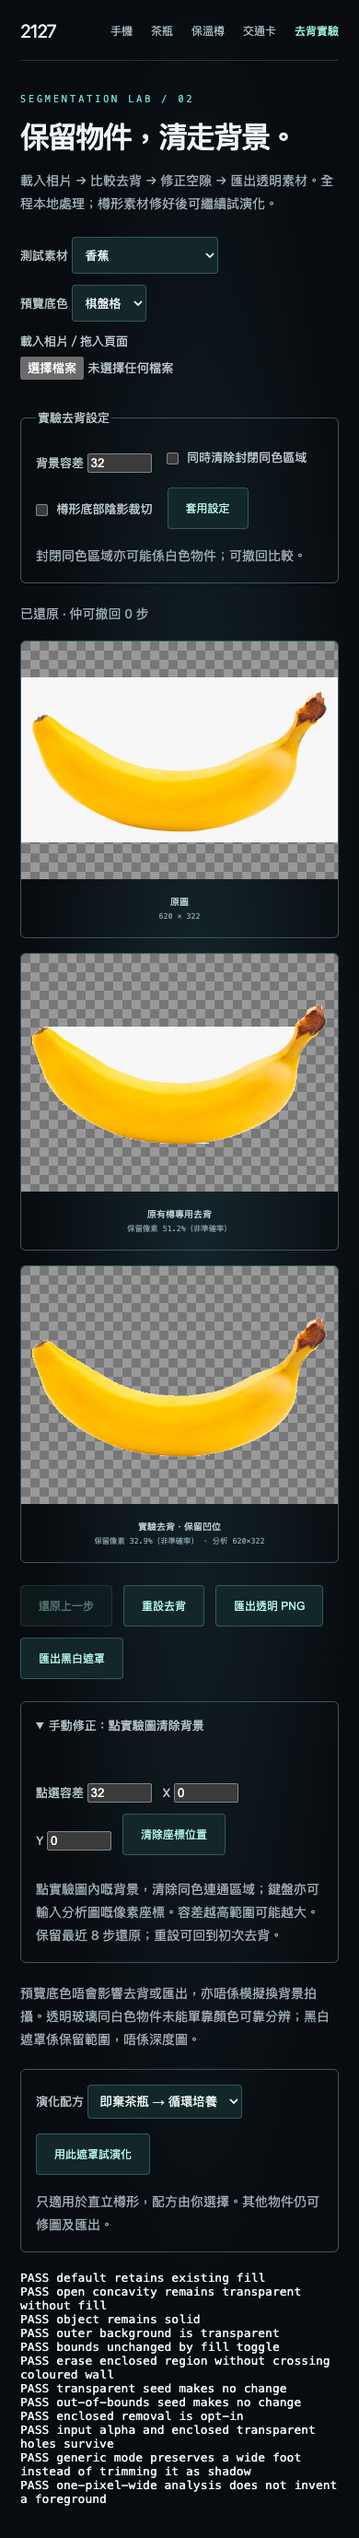
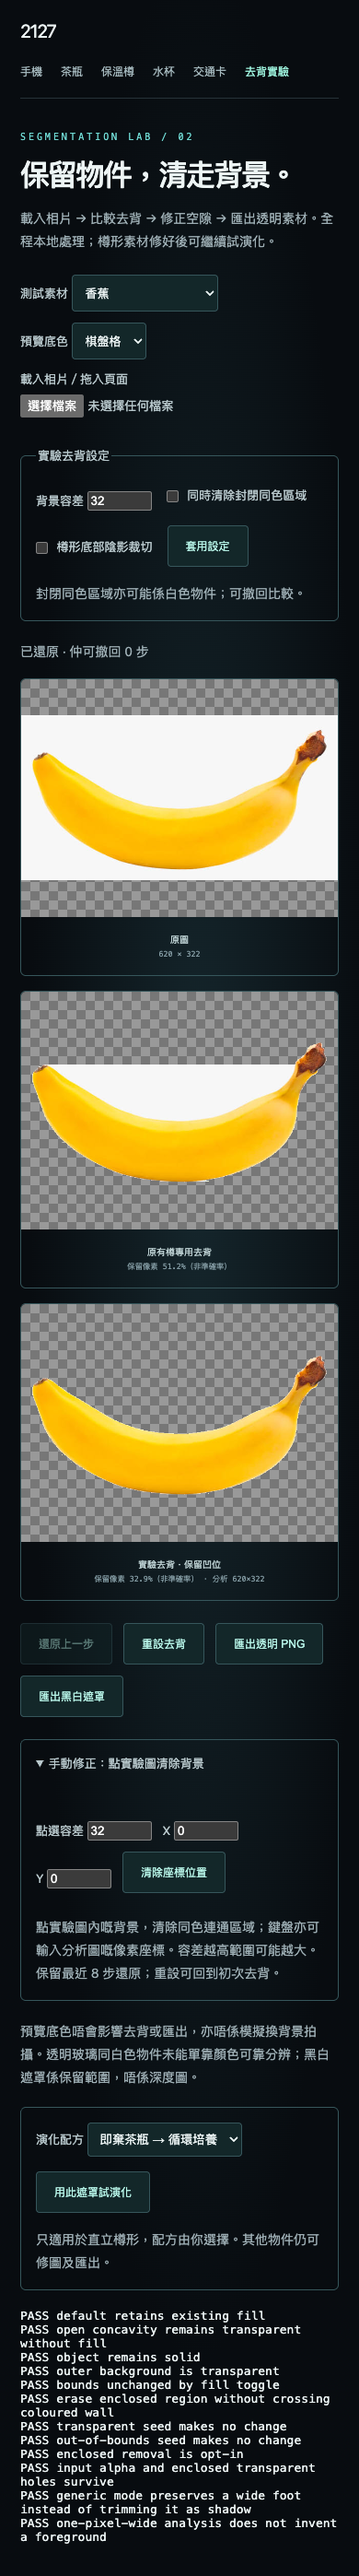
feat(studies): add the wide-container recipe (cup)
第三個演化配方 cup()：闊身容器（闊高比 0.6–1.15），fixture 用已在 repo 的
assets/segmentation/water.jpg，入口 studies.html?object=cup。

保留就口杯緣同承座，移走成幅杯壁，加懸掛式內膽（上下都有實體連接）、
三條調溫臂、中段束環同比原杯闊嘅站姿；負空間係真 alpha。

同 bottle()／flask() 唔同，cup() 每個 x 由遮罩量到嘅半闊推出嚟，
唔寫死 fixture 嘅像素欄 —— 因為呢個類別本身係一個比例範圍，唔係一張相。

守門改成逐配方比例範圍 RANGE，揀錯配方會拒絕並講返邊個配方啱
（實測：闊高比 0.73 唔喺「茶瓶」範圍，比較接近「闊身容器」）；
切換配方會重新守門。配方仍然人手揀，冇自動辨識。

390px 三粒配方掣會溢出，已加 flex-wrap。
lab 12 + studies 41 + phone 9 + legacy 67 = 129 全綠。

Claude-Session: https://claude.ai/code/session_01Xbqts8uz557AYsPHVhYA2D

Changed region(s): [[0.0308, 0.0, 0.9538, 0.9993], [0.8615, 0.0, 0.9231, 0.0312], [0.8923, 0.0625, 0.9231, 0.0937]]

diff --git a/studies.html b/studies.html
@@ -13,27 +13,27 @@
 <link rel="stylesheet" href="calibration.css">
 </head>
 <body><main>
-<header><div class="mark">2127<span>100 YEARS LATER</span></div><nav aria-label="物件測試" style="display:flex;gap:20px;flex-wrap:wrap"><a href="phone.html">手機</a><a href="studies.html?object=bottle" id="nav-bottle">茶瓶</a><a href="studies.html?object=bottle-b" id="nav-bottle-b">保溫樽</a><a href="studies.html?object=suica" id="nav-suica">交通卡</a><a href="studies.html?lab=1" id="nav-lab">去背實驗</a></nav></header>
+<header><div class="mark">2127<span>100 YEARS LATER</span></div><nav aria-label="物件測試" style="display:flex;gap:20px;flex-wrap:wrap"><a href="phone.html">手機</a><a href="studies.html?object=bottle" id="nav-bottle">茶瓶</a><a href="studies.html?object=bottle-b" id="nav-bottle-b">保溫樽</a><a href="studies.html?object=cup" id="nav-cup">水杯</a><a href="studies.html?object=suica" id="nav-suica">交通卡</a><a href="studies.html?lab=1" id="nav-lab">去背實驗</a></nav></header>
 <section class="hero"><div class="copy"><div class="eyebrow">FORM STUDY / <span id="number">003</span></div><h1 id="title"></h1><p class="intro" id="intro"></p><div class="specs" id="specs"></div></div>
 <figure><canvas id="view" width="1456" height="970" role="img" aria-label="原物件與未來形態比較"></canvas><figcaption id="phase" aria-live="polite">準備形態推演</figcaption></figure></section>
 <div class="controls"><div class="compare"><div class="labels"><label for="evolution">原始物件</label><span>2127 形態</span></div><input id="evolution" aria-label="原始物件與 2127 形態比較" type="range" min="0" max="100" value="100" disabled></div><button id="replay" disabled>重新推演 ↗</button></div>
 <div class="controls" id="loadwrap" hidden style="flex-wrap:wrap;gap:14px">
 <label class="filebtn">放一張新相片入嚟 …<input type="file" id="file" accept="image/jpeg,image/png,image/webp" hidden></label>
-<span style="display:flex;align-items:center;gap:8px"><span class="hint">配方</span><button class="rbtn" data-r="bottle" aria-pressed="false">茶瓶・培養循環</button><button class="rbtn" data-r="flask" aria-pressed="false">鋼樽・大氣取水</button></span>
-<span class="hint" id="loadhint">或直接將相片拖入頁面・單一直立物件・乾淨漸層背景</span></div>
+<span style="display:flex;align-items:center;gap:8px;flex-wrap:wrap"><span class="hint">配方</span><button class="rbtn" data-r="bottle" aria-pressed="false">茶瓶・培養循環</button><button class="rbtn" data-r="flask" aria-pressed="false">鋼樽・大氣取水</button><button class="rbtn" data-r="cup" aria-pressed="false">闊身容器・懸掛內膽</button></span>
+<span class="hint" id="loadhint">或直接將相片拖入頁面・單一物件・乾淨漸層背景・配方要自己揀</span></div>
 <div class="controls" id="elevwrap" hidden><div class="compare"><div class="labels"><label for="elevation">鏡頭：正面</label><span>斜視 45°</span></div><input id="elevation" aria-label="鏡頭仰角" type="range" min="0" max="100" value="0"></div><span style="font:10px ui-monospace,monospace;color:#5f757e;white-space:nowrap">原型・程序幾何重新投影</span></div>
 <footer><p class="kept" id="kept"></p><p>靜態相片・本地程序生成<br>單張相片校準測試，未包含旋轉追蹤。</p></footer><pre id="checks" hidden></pre>
 </main><script src="segmentation.js"></script><script src="calibration.js"></script><script>
 'use strict';
-const SRC={bottle:'assets/bottle-source.webp','bottle-b':'assets/bottle-b-source.jpeg',suica:'assets/suica-source.jpg'};
+const SRC={bottle:'assets/bottle-source.webp','bottle-b':'assets/bottle-b-source.jpeg',cup:'assets/segmentation/water.jpg',suica:'assets/suica-source.jpg'};
 const Q=new URLSearchParams(location.search),kind=!Q.has('lab')&&SRC[Q.get('object')]?Q.get('object'):'bottle',family=kind==='suica'?'suica':'bottle';
-const COPY={flask:{number:'005',title:'水，<br>由空氣嚟。',intro:'保溫層退場。真空夾層外露成冷凝鰭，樽身自己由空氣抽水；你只需要帶住佢。',specs:['外露冷凝鰭層','底部進氣與集水','保留鋼蓋與樽身輪廓'],kept:'一百年後，還是想隨時有一口水。'},bottle:{number:'003',title:'一口茶，<br>一個循環。',intro:'拋棄式瓶身退場。保留瓶口與茶液，讓培養、過濾與補水成為同一件容器。',specs:['循環培養艙','相連過濾莢','保留瓶口與茶液'],kept:'一百年後，還是為了那一口茶。'},suica:{number:'004',title:'通行，<br>隨身而行。',intro:'卡片縮成腕上的通行核心。玉色帶體環抱手腕，熟悉的識別面陪你走過下一道門。',specs:['開口式腕環','無接觸感應端','保留原卡識別面'],kept:'一百年後，還是想順利回家。'}};
+const COPY={cup:{number:'006',title:'一啖嘅<br>溫度。',intro:'杯壁退場。剩返就口嘅杯緣同承座，中間換成懸掛內膽同三條調溫臂；飲品淨係喺你手上嗰陣先保住溫度。',specs:['懸掛式內膽','三臂調溫葉片','保留杯緣與承座'],kept:'一百年後，還是想飲啖啱溫度嘅嘢。'},flask:{number:'005',title:'水，<br>由空氣嚟。',intro:'保溫層退場。真空夾層外露成冷凝鰭，樽身自己由空氣抽水；你只需要帶住佢。',specs:['外露冷凝鰭層','底部進氣與集水','保留鋼蓋與樽身輪廓'],kept:'一百年後，還是想隨時有一口水。'},bottle:{number:'003',title:'一口茶，<br>一個循環。',intro:'拋棄式瓶身退場。保留瓶口與茶液，讓培養、過濾與補水成為同一件容器。',specs:['循環培養艙','相連過濾莢','保留瓶口與茶液'],kept:'一百年後，還是為了那一口茶。'},suica:{number:'004',title:'通行，<br>隨身而行。',intro:'卡片縮成腕上的通行核心。玉色帶體環抱手腕，熟悉的識別面陪你走過下一道門。',specs:['開口式腕環','無接觸感應端','保留原卡識別面'],kept:'一百年後，還是想順利回家。'}};
 function setCopy(type){const copy=COPY[type];
 for(const id of ['number','intro','kept'])document.getElementById(id).textContent=copy[id];
 document.getElementById('title').innerHTML=copy.title;
 document.getElementById('specs').innerHTML=copy.specs.map((s,i)=>`<div><span>0${i+1}</span>${s}</div>`).join('');
 }
-setCopy(kind==='bottle-b'?'flask':family==='bottle'?'bottle':'suica');
+setCopy(kind==='bottle-b'?'flask':kind==='cup'?'cup':family==='bottle'?'bottle':'suica');
 document.getElementById('nav-'+kind).style.color='#9ef4de';document.getElementById('nav-'+kind).setAttribute('aria-current','page');
 const canvas=document.getElementById('view'),ctx=canvas.getContext('2d'),slider=document.getElementById('evolution'),replay=document.getElementById('replay'),phase=document.getElementById('phase');
 let photo=new Image();const source=document.createElement('canvas'),future=document.createElement('canvas');
@@ -127,14 +127,14 @@ function cuff(){
  for(let i=0;i<5;i++)line(c,`M-80 ${i*14+8} L-73 ${i*14+8}`,'#b7d89a',1.2);
  c.restore();
 }
-let anchors=null,recipe=kind==='bottle-b'?'flask':'bottle';
+let anchors=null,recipe=kind==='bottle-b'?'flask':kind==='cup'?'cup':'bottle';
 const E0=Math.asin(.085),E1=45*Math.PI/180;
 // Redraw the future canvas from scratch. build() ran once and each renderer calls scale(2,2),
 // so the transform must be reset here or repeated elevation redraws would compound it (gotcha #9).
 function renderFuture(elev=E0){
  const c=future.getContext('2d');
  c.setTransform(1,0,0,1,0,0);c.clearRect(0,0,1456,970);
- if(family!=='bottle')cuff();else if(recipe==='flask')flask(elev);else bottle();
+ if(family!=='bottle')cuff();else if(recipe==='cup')cup();else if(recipe==='flask')flask(elev);else bottle();
 }
 // Photo B is a vacuum steel flask: it has already solved the disposable bottle's problem, so it
 // gets its own evolution rather than the tea recipe. Its defining property is holding a state
@@ -192,6 +192,53 @@ function flask(elev){
  line(c,'M311 388 Q365 399 419 388','#c8e6f0',1.7,3);
  oval(c,365,95,29,RY(29,6),'#243b43','#c8dae2',1);
 }
+// A cup is not a bottle pushed sideways: it is open at the top and meant to be drunk from
+// directly, so its century is about the drink's temperature, not about storing or harvesting.
+// The straight wall goes; the rim you put your mouth on and the foot it stands on remain.
+// Unlike bottle()/flask(), every x here is derived from the mask's own measured half-width,
+// because this class spans 0.6-1.15 width/height instead of one fixture's proportions.
+function cup(){
+ const c=future.getContext('2d');c.scale(2,2);
+ const k=428.2/(anchors.base-anchors.top),hw=anchors.width*k/2,cx=364.8,TOP=22.3,BOT=450.5;
+ const clay=grad(c,cx-hw,0,cx+hw,0,[[0,'#4b3a33'],[.24,'#f4e7d6'],[.56,'#cfae8e'],[1,'#3d302b']]);
+ const shell=grad(c,cx-hw*.42,0,cx+hw*.42,0,[[0,'#2f2a2a'],[.22,'#f0e6dbb0'],[.55,'#a2938aa0'],[1,'#282224']]);
+ const amber=grad(c,0,TOP+150,0,BOT-70,[[0,'#f2c983c0'],[.45,'#d4903dd0'],[1,'#7f4a1ae0']]);
+ const arm=(d,w=8)=>{line(c,d,'#2a1f1a',w+3);line(c,d,'#cba887',w);line(c,d,'#f8ead8',1.1);};
+ const yb=TOP+44,yf=BOT-46,cb=yf-38;
+ // The photographed drinking rim and foot stay; the wall and its contents between them go.
+ c.save();c.beginPath();c.rect(0,0,728,yb);c.clip();c.drawImage(source,0,0,728,485);c.restore();
+ c.save();c.beginPath();c.rect(0,yf,728,485-yf);c.clip();c.drawImage(source,0,0,728,485);c.restore();
+ // Back hanger first: it passes behind the suspended core, so the core reads as hung inside.
+ arm(`M${cx} ${yb-4} L${cx} ${cb-24}`,6);
+ // Mid brace ties the three arms together; the core hangs through it.
+ oval(c,cx,TOP+232,hw*1.02,hw*.12,null,'#c9a988',2.2);
+ // Suspended inner vessel, tapered and closed at the foot, hung from the rim collar.
+ const core=`M${cx-hw*.40} ${yb+18} Q${cx} ${yb+4} ${cx+hw*.40} ${yb+18} L${cx+hw*.28} ${cb-22} Q${cx} ${cb+10} ${cx-hw*.28} ${cb-22} Z`;
+ shape(c,core,shell,'#e6d2ba',1.2);
+ const lvl=yb+18+(cb-yb-18)*.5;
+ shape(c,`M${cx-hw*.345} ${lvl} Q${cx} ${lvl+12} ${cx+hw*.345} ${lvl} L${cx+hw*.28} ${cb-22} Q${cx} ${cb+10} ${cx-hw*.28} ${cb-22} Z`,amber,'#f4c883',.9);
+ oval(c,cx,lvl,hw*.345,hw*.055,'#f9d69ab0','#ffeecb',1);
+ line(c,`M${cx-hw*.31} ${yb+30} L${cx-hw*.24} ${cb-30}`,'#fff3e090',1.6);
+ // Three arms carry and temper the core: they bow outside the old wall, then plant on a stance
+ // wider than the cup ever had. Slit lamellae run up each blade, not stacked rings (that is flask()).
+ for(const side of [-1,1]){
+  const x1=cx+side*hw*.93,x2=cx+side*hw*1.05,x3=cx+side*hw*1.07;
+  shape(c,`M${x1} ${yb-2} Q${x2+side*8} ${TOP+190} ${x2} ${yf-12} L${x3} ${BOT-8} L${x3-side*20} ${BOT-8} L${x2-side*19} ${yf-14} Q${x2-side*25} ${TOP+193} ${x1-side*13} ${yb} Z`,clay,'#f3e3d1',.9);
+  line(c,`M${x1-side*5} ${yb+8} Q${x2-side*12} ${TOP+193} ${x2-side*9} ${yf-18}`,'#ffd6a2',1.4,3);
+  for(let i=0;i<9;i++){const t=(i+.5)/9,y=yb+16+(yf-34-yb)*t,px=x1+(x2-x1)*Math.sin(t*Math.PI*.9);
+   line(c,`M${px-side*4} ${y+1} L${px-side*14} ${y+6}`,'#6d4f3f',2.4);line(c,`M${px-side*4} ${y} L${px-side*14} ${y+5}`,'#f0d9bd',.7);}
+  // Strut back onto the photographed foot, so the stance is seated on the object, not beside it.
+  arm(`M${x3-side*10} ${BOT-16} L${cx+side*hw*.46} ${yf+4}`,6);
+  oval(c,x3-side*10,BOT-8,15,4.5,'#3d2b23','#dbbb9d',1);
+ }
+ // Collars close the joints at both surviving ends.
+ shape(c,`M${cx-hw*.96} ${yb-8} Q${cx} ${yb+9} ${cx+hw*.96} ${yb-8} L${cx+hw*.92} ${yb+7} Q${cx} ${yb+24} ${cx-hw*.92} ${yb+7} Z`,clay,'#f6e6d4',1);
+ line(c,`M${cx-hw*.78} ${yb+7} Q${cx} ${yb+20} ${cx+hw*.78} ${yb+7}`,'#ffdcae',1.5,3);
+ // The core is hung from the rim and footed on the surviving base: supported at both ends.
+ arm(`M${cx} ${cb+4} L${cx} ${yf-1}`,5);
+ oval(c,cx,yf+1,hw*.42,hw*.055,null,'#e6cbaf',1.4);
+ oval(c,cx,yf-1,hw*.13,hw*.03,'#5b4238','#e0c3a6',1);
+}
 // One reason per failed condition. A single 「不支援」 line cannot tell the operator whether to
 // re-shoot, crop, or fix the mask in the lab, and every rejection here has a different remedy.
 // The shape tests alone are geometric and cannot tell a good mask from none at all: a cluttered
@@ -199,13 +246,15 @@ function flask(elev){
 // it conflates "background not removed" with "object simply framed tight", which would reject a
 // correctly segmented photo. Reaching both side borders is the signal that the frame, not an
 // object, is what survived; the loose area bound catches a mask that hugs one edge only.
-function bottleGate(s,h){
+const RANGE={bottle:[.15,.6],flask:[.15,.6],cup:[.6,1.15]},RNAME={bottle:'茶瓶',flask:'保溫樽',cup:'闊身容器'};
+function bottleGate(s,h,rec){
  if(!s)return '搵唔到前景：物件同背景顏色太接近';
  if(s.bothSides)return '剪影掂到左右兩邊畫框：背景未清走（可喺實驗模式修圖）';
  if(s.kept>=.6)return `保留範圍達 ${Math.round(s.kept*100)}%：背景大部分未清走`;
  if(s.base-s.top<=h*.25)return '物件太細：高度需要佔畫面四分一以上';
- const asp=s.width/(s.base-s.top);
- if(asp<=.15||asp>=.6)return `闊高比 ${asp.toFixed(2)} 唔喺直立樽形範圍（0.15–0.6）`;
+ const asp=s.width/(s.base-s.top),[lo,hi]=RANGE[rec];
+ if(asp<=lo||asp>=hi){const fit=Object.keys(RANGE).find(r=>RANGE[r][0]!==lo&&asp>RANGE[r][0]&&asp<RANGE[r][1]);
+  return `闊高比 ${asp.toFixed(2)} 唔喺「${RNAME[rec]}」配方範圍（${lo}–${hi}）`+(fit?`；比較接近「${RNAME[fit]}」配方，可以喺配方揀返`:'');}
  return null;
 }
 // Returns true, or the reason this photo/mask was rejected.
@@ -216,7 +265,7 @@ function build(prepared=null){
  c.setTransform(1,0,0,1,0,0);c.clearRect(0,0,1456,970);c.scale(2,2);
  if(family==='bottle'){
   // Reject anything that is not one upright bottle-shaped silhouette rather than rendering nonsense.
-  const s=prepared||segment(photo),why=bottleGate(s,photo.naturalHeight);if(why)return why;
+  const s=prepared||segment(photo),why=bottleGate(s,photo.naturalHeight,recipe);if(why)return why;
   // bottle()'s geometry is drawn for a bottle whose top/base/centre sit at 22.3/450.5/364.8.
   // Placing any measured bottle onto those anchors reuses that artwork without re-authoring it.
   const k=428.2/(s.base-s.top);
@@ -240,12 +289,12 @@ if(kind==='bottle-b'){const wrap=document.getElementById('elevwrap'),el=document
 slider.addEventListener('input',()=>{cancelAnimationFrame(raf);raf=0;draw(+slider.value/100);phase.textContent=+slider.value===0?'原始物件':+slider.value===100?'2127 / 形態完成':'原型 ↔ 未來形態';});replay.addEventListener('click',evolve);
 function selfTest(){const rows=[],check=(n,ok)=>rows.push(`${ok?'PASS':'FAIL'} ${n}`),a=source.getContext('2d').getImageData(0,0,1456,970).data,b=future.getContext('2d').getImageData(0,0,1456,970).data;let count=0,removed=0,added=0;for(let i=3;i<a.length;i+=4){if(a[i]>200){count++;if(b[i]<30)removed++;}else if(a[i]<10&&b[i]>180)added++;}
  if(family==='bottle'){check('background actually removed, not merely plausible geometry',!!anchors&&!anchors.bothSides&&anchors.kept<.6);
-  check('rejection names the failing condition',/掂到左右/.test(bottleGate({bothSides:true,kept:.2,top:0,base:100,width:30},200))&&/闊高比/.test(bottleGate({bothSides:false,kept:.2,top:0,base:100,width:90},200))&&bottleGate(anchors,photo.naturalHeight)===null);
+  check('rejection names the failing condition and the recipe that fits',/掂到左右/.test(bottleGate({bothSides:true,kept:.2,top:0,base:100,width:30},200,recipe))&&/闊身容器/.test(bottleGate({bothSides:false,kept:.2,top:0,base:100,width:90},200,'bottle'))&&bottleGate(anchors,photo.naturalHeight,recipe)===null);
   check('anchors measured from this photo, not hardcoded',!!anchors&&anchors.base-anchors.top>photo.naturalHeight*.25&&Math.abs(anchors.cx-photo.naturalWidth/2)<photo.naturalWidth*.2);
   if(kind==='bottle'){const k=428.2/(anchors.base-anchors.top);
    check('calibrated fixture still lands on its authored placement',Math.abs(364.8-anchors.cx*k-150.6)<3&&Math.abs(photo.naturalWidth*k-428.8)<6);}}
  else check('calibrated source dimensions',photo.naturalWidth===1280&&photo.naturalHeight===961);check('source background is transparent',a[3]===0&&count>1000);check('original solid area physically removed',removed/count>(family==='bottle'?.12:.3));if(family==='bottle')check('new structures extend beyond source',added/count>.05);else{const alpha=(x,y)=>b[(y*2*1456+x*2)*4+3];check('open cuff has solid band and credential mount, clear side gap',alpha(358,125)>200&&alpha(312,330)>200&&alpha(581,229)===0);}
- const hole=kind==='bottle-b'?[314,160]:family==='bottle'?[309,280]:[365,228],k=(hole[1]*2*1456+hole[0]*2)*4+3;check('former body contains actual transparent negative space',a[k]>200&&b[k]===0);draw();check('final composite removes old body',ctx.getImageData(0,0,1456,970).data[k]<30);check('controls enabled',!slider.disabled&&!replay.disabled);
+ const hole=kind==='bottle-b'?[314,160]:kind==='cup'?[250,300]:family==='bottle'?[309,280]:[365,228],k=(hole[1]*2*1456+hole[0]*2)*4+3;check('former body contains actual transparent negative space',a[k]>200&&b[k]===0);draw();check('final composite removes old body',ctx.getImageData(0,0,1456,970).data[k]<30);check('controls enabled',!slider.disabled&&!replay.disabled);
  if(family==='bottle'){
   // build() is now re-entrant (file input can load repeatedly). It applies scale(2,2), so without
   // the reset at its head a second load would draw the source at half size and every anchor-driven
@@ -319,7 +368,11 @@ if(family==='bottle'&&!Q.has('lab')){
   b.addEventListener('click',()=>{
    recipe=b.dataset.r;setCopy(recipe);
    for(const o of wrap.querySelectorAll('.rbtn'))o.setAttribute('aria-pressed',String(o.dataset.r===recipe));
-   if(anchors){renderFuture();evolve();}});
+   // Each recipe has its own supported proportions, so switching must re-run the gate:
+   // a tea bottle silhouette is not a cup and must be rejected rather than drawn as one.
+   if(!photo||!photo.naturalWidth)return;
+   const why=build();if(why!==true)return fail('不在支援範圍——'+why);
+   show();});
  }
  let depth=0;
  addEventListener('dragenter',e=>{e.preventDefault();if(!depth++)document.body.classList.add('drag');});
@@ -365,7 +418,7 @@ function startLab(){
  <label>點選容差 <input id="lab-tolerance" type="number" required min="0" max="100" value="32"></label>
  <label>X <input id="lab-x" type="number" required min="0" value="0"></label><label>Y <input id="lab-y" type="number" required min="0" value="0"></label><button id="lab-erase" disabled>清除座標位置</button></div>
  <p class="lab-note" id="lab-help">點實驗圖內嘅背景，清除同色連通區域；鍵盤亦可輸入分析圖嘅像素座標。容差越高範圍可能越大。保留最近 8 步還原；重設可回到初次去背。</p></details>
- <p class="lab-note">預覽底色唔會影響去背或匯出，亦唔係模擬換背景拍攝。透明玻璃同白色物件未能單靠顏色可靠分辨；黑白遮罩係保留範圍，唔係深度圖。</p><div class="lab-settings"><label>演化配方 <select id="lab-recipe"><option value="bottle">即棄茶瓶 → 循環培養</option><option value="flask">保溫樽 → 大氣取水</option></select></label><button id="lab-evolve" disabled>用此遮罩試演化</button><span class="lab-note">只適用於直立樽形，配方由你選擇。其他物件仍可修圖及匯出。</span></div><section id="lab-evolution" hidden aria-label="樽形演化預覽"></section><pre id="lab-checks" hidden></pre>`;
+ <p class="lab-note">預覽底色唔會影響去背或匯出，亦唔係模擬換背景拍攝。透明玻璃同白色物件未能單靠顏色可靠分辨；黑白遮罩係保留範圍，唔係深度圖。</p><div class="lab-settings"><label>演化配方 <select id="lab-recipe"><option value="bottle">即棄茶瓶 → 循環培養</option><option value="flask">保溫樽 → 大氣取水</option><option value="cup">闊身容器 → 懸掛內膽</option></select></label><button id="lab-evolve" disabled>用此遮罩試演化</button><span class="lab-note">只適用於直立樽形，配方由你選擇。其他物件仍可修圖及匯出。</span></div><section id="lab-evolution" hidden aria-label="樽形演化預覽"></section><pre id="lab-checks" hidden></pre>`;
  document.querySelector('main').append(lab);
  const get=id=>document.getElementById('lab-'+id),status=get('status'),sample=get('sample'),editable=get('view-2'),g=editable.getContext('2d');
  const xInput=get('x'),yInput=get('y'),tolerance=get('tolerance'),bgTolerance=get('bg-tolerance'),enclosed=get('enclosed'),shadow=get('shadow');
@@ -457,7 +510,7 @@ function startLab(){
   try{await img.decode();if(version!==revision)return;
    const geometry=maskGeometry(editable);
    photo=img;recipe=get('recipe').value;setCopy(recipe);
-   const why=geometry?build(geometry):bottleGate(null);
+   const why=geometry?build(geometry):bottleGate(null,0,recipe);
    if(why!==true){fail('不在支援範圍——'+why);message(`此遮罩未能套用樽配方：${why}；請繼續修圖或匯出`,true);preview.hidden=true;return;}
    preview.hidden=false;show();message(`${name} · 已用目前遮罩試演化（手動選配方，非自動辨識）`);
    preview.scrollIntoView({behavior:'instant',block:'start'});

diff --git a/HANDOFF.md b/HANDOFF.md
@@ -7,10 +7,11 @@ Updated: 2026-09-08 · Workspace: `/Users/fatboy/item2127`
 The user authorized continued implementation, chose **a few everyday-object classes** rather than arbitrary food/toy evolution, and chose **offline-first operation**. No physical hardware exists for this exploration. All runtime assets are local; no model or cloud API was added.
 
 - `studies.html?lab=1`: compare original / bottle-specific segmentation / editable generic segmentation. Configurable colour tolerance, opt-in enclosed-region removal, optional bottle-shadow trim, eight-step undo, reset, drag/drop, transparent PNG and grayscale-mask export. Working/export resolution is capped at 1200px on the longest side. Existing input alpha is preserved.
-- Edited masks can feed the existing tea-bottle or steel-flask renderer directly. Unsupported geometry keeps the editor available. Editing or replacing the mask hides stale evolution results. Recipe selection also updates the narrative.
+- `studies.html?object=cup`: a third evolution recipe for the wide-container class (width/height 0.6-1.15), authored against `assets/segmentation/water.jpg`. The drinking rim and foot are kept from the photo, the wall is removed, and a suspended inner vessel on three tempering arms is added. Unlike the two bottle renderers its geometry is derived from the mask's measured half-width, not from one fixture's pixel columns. Recipes are still chosen by hand; each has its own supported proportions and picking the wrong one is rejected with the reason and the recipe that fits.
+- Edited masks can feed the existing tea-bottle, steel-flask or wide-container renderer directly. Unsupported geometry keeps the editor available. Editing or replacing the mask hides stale evolution results. Recipe selection also updates the narrative.
 - `phone.html` and `studies.html?object=suica`: upload a photo, mark four corners by pointer or coordinates, apply the existing artwork, or restore the original fixture. `calibration.js` shares the phone's projective map and inverse, alpha-aware resampling, validation and UI. `calibration.css` styles the shared controls.
 - `segmentation.js`: shared segmentation and mask geometry. Local convex-outline corner proposals work on the card fixture; the phone fixture and banana are rejected rather than weakening the quadrilateral fit check. Proposals require human inspection and do not recognize object identity.
-- Validation: **119 page self-checks**, plus the real UI workflow in `tests/browser.cjs`. See `tests/README.md` for prerequisites and invocation. Rejections name the failing gate condition (aspect / silhouette touching both frame edges / retained area / too small) rather than one generic line; evidence in `previews/input-tests/reject-reasons.json`. Latest evidence: `previews/input-tests/workflow-results.json`, calibrated phone/card screenshots, mask exports and bottle bridge screenshots.
+- Validation: **129 page self-checks**, plus the real UI workflow in `tests/browser.cjs`. See `tests/README.md` for prerequisites and invocation. Rejections name the failing gate condition (aspect / silhouette touching both frame edges / retained area / too small) rather than one generic line; evidence in `previews/input-tests/reject-reasons.json`. Latest evidence: `previews/input-tests/workflow-results.json`, calibrated phone/card screenshots, mask exports and bottle bridge screenshots.
 - Evidence limits: calibration was tested with translated/padded original fixtures, not a new physical phone/card. Glass bright regions are incorrectly removed by aggressive colour-keying. This is reusable local preparation and authored evolution, not arbitrary-object generation or exhibition validation.
 
 Next work should improve robustness within these four authored directions using additional in-class photos. Keep manual correction and explicit rejection until automated geometry is supported by evidence. Camera capture, printing, exhibition cycling and second-view capture remain unimplemented or unvalidated; do not revive rotation work before the still-image flow is ready.

diff --git a/memory-bank/20-status.md b/memory-bank/20-status.md
@@ -2,6 +2,16 @@
 
 最後更新：2026-09-08
 
+## 第三個配方：闊身容器（2026-09-08）
+
+- 使用者選定「加第三個配方」。新增 `cup()`：闊身容器（水杯／杯類，闊高比 0.6–1.15），fixture 用已在 repo 的 `assets/segmentation/water.jpg`，入口 `studies.html?object=cup`，導覽加「水杯」。
+- 造型：保留相片嘅就口杯緣同承座，移走成幅杯壁，加懸掛式內膽（上下兩端都有實體連接）、三條調溫臂（垂直葉片，唔用 flask 嘅水平環）、中段束環同比原杯闊嘅站姿。負空間係真 alpha。
+- **同 `bottle()`／`flask()` 唔同：`cup()` 每個 x 都由遮罩量到嘅半闊推出嚟**，唔係寫死 fixture 嘅像素欄。因為呢個類別本身就係一個比例範圍，唔係一張相。
+- 守門改成**逐配方比例範圍**（`RANGE`）：茶瓶／保溫樽 0.15–0.6、闊身容器 0.6–1.15。揀錯配方會拒絕，並講返邊個配方啱：實測「闊高比 0.73 唔喺「茶瓶」配方範圍（0.15–0.6）；比較接近「闊身容器」配方」。切換配方會**重新守門**，唔會將茶瓶剪影當杯畫。
+- 配方仍然係人手揀，冇自動辨識。手機 390px 加咗第三粒配方掣後會橫向溢出，已加 `flex-wrap`，檢查覆蓋。
+- lab 12 + studies 41（茶瓶 11、鋼樽 13、水杯 10、卡片 7）+ phone 9 + legacy 67 = **129 全綠**；另加配方揀錯／揀返嘅 UI 檢查。預覽 `previews/cup-future.png`。
+- 未證明：其他杯類相片（只有一張 fixture）、透明杯內部（去背仍然係不透明剪影，杯內白色係原相）、任意物件。
+
 ## 本地輸入到演化整合（2026-09-08）
 
 - 使用者要求持續自主推进，並選定「先做好幾類日常用品」，暫不探索任意食物／玩具生成。現階段仍無硬件，繼續 demo／coding。

diff --git a/tests/README.md b/tests/README.md
@@ -5,6 +5,7 @@ No application build or new runtime dependency is needed. Serve the repository w
 - `studies.html?lab=1&test=1`: 12 segmentation / mask geometry checks.
 - `studies.html?object=bottle&test=1`: 11 checks.
 - `studies.html?object=bottle-b&test=1`: 13 checks.
+- `studies.html?object=cup&test=1`: 10 checks.
 - `studies.html?object=suica&test=1`: 7 checks.
 - `phone.html?test=1`: 9 checks.
 - `index.html?test=1`: 67 legacy checks.
@@ -23,4 +24,4 @@ If Playwright is supplied outside this repository, set `PLAYWRIGHT_MODULE` to th
 PLAYWRIGHT_MODULE=/Users/fatboy/.cache/codex-runtimes/codex-primary-runtime/dependencies/node/node_modules/playwright node tests/browser.cjs
 ```
 
-Coverage includes opt-in enclosed-region cleanup, reversible reset, PNG download/alpha round-trip, invalid inputs, rapid sample switching, unsupported-mask recovery, both prepared-mask bottle recipes, calibrated phone/card uploads, local card corner proposals, curved-outline rejection, baseline restoration and 390px layout. Calibration uses translated/padded fixture photos, not new physical objects. Quantitative geometry checks do not establish arbitrary-photo recognition, artistic quality or exhibition reliability.
+Coverage includes the wrong-recipe rejection on the cup study, opt-in enclosed-region cleanup, reversible reset, PNG download/alpha round-trip, invalid inputs, rapid sample switching, unsupported-mask recovery, both prepared-mask bottle recipes, calibrated phone/card uploads, local card corner proposals, curved-outline rejection, baseline restoration and 390px layout. Calibration uses translated/padded fixture photos, not new physical objects. Quantitative geometry checks do not establish arbitrary-photo recognition, artistic quality or exhibition reliability.

diff --git a/previews/input-tests/README.md b/previews/input-tests/README.md
@@ -7,6 +7,7 @@
 - `toy-cutout.png` / `toy-mask.png`: latest exported transparent image / grayscale alpha mask (the latter supersedes the early toy diagnostic mask).
 - `bridge-bottle*.png`: edited-mask-to-authored-evolution flow.
 - `reject-reasons.json` / `reject-reason.png`: per-condition rejection messages on the four out-of-class photos.
+- `cup-recipe-mismatch.png`: the cup photo rejected after picking a bottle recipe, naming the recipe that fits.
 - `calibrated-phone.png` / `calibrated-card.png`: translated/padded fixture calibration, not different real objects.
 
 Other result files and screenshots below retain earlier experiment history; use the latest workflow result for current status.
